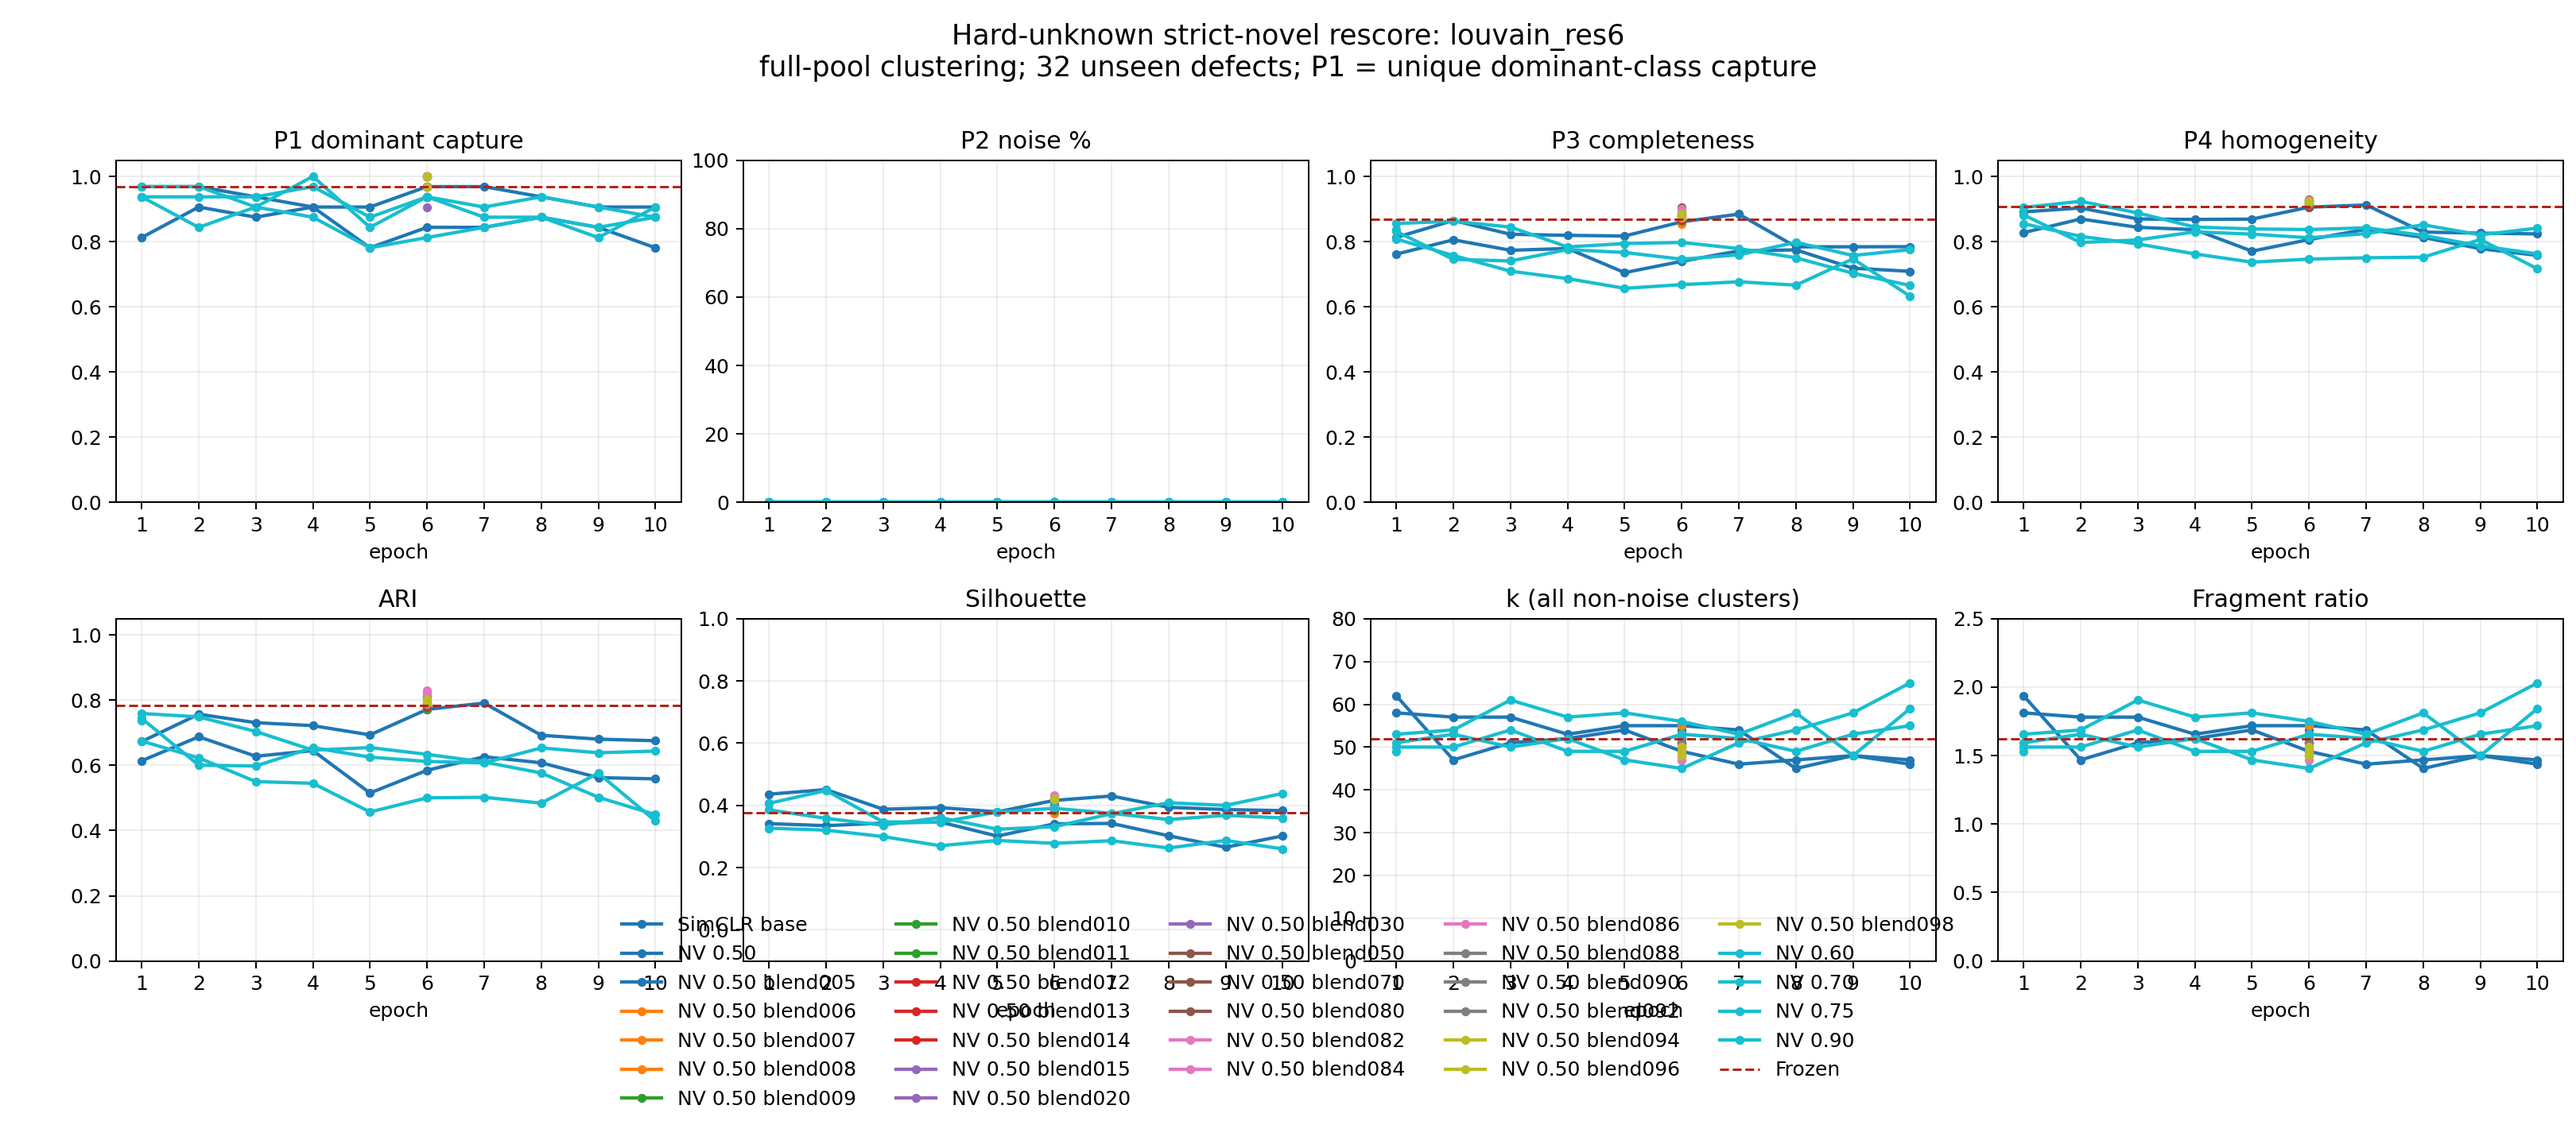
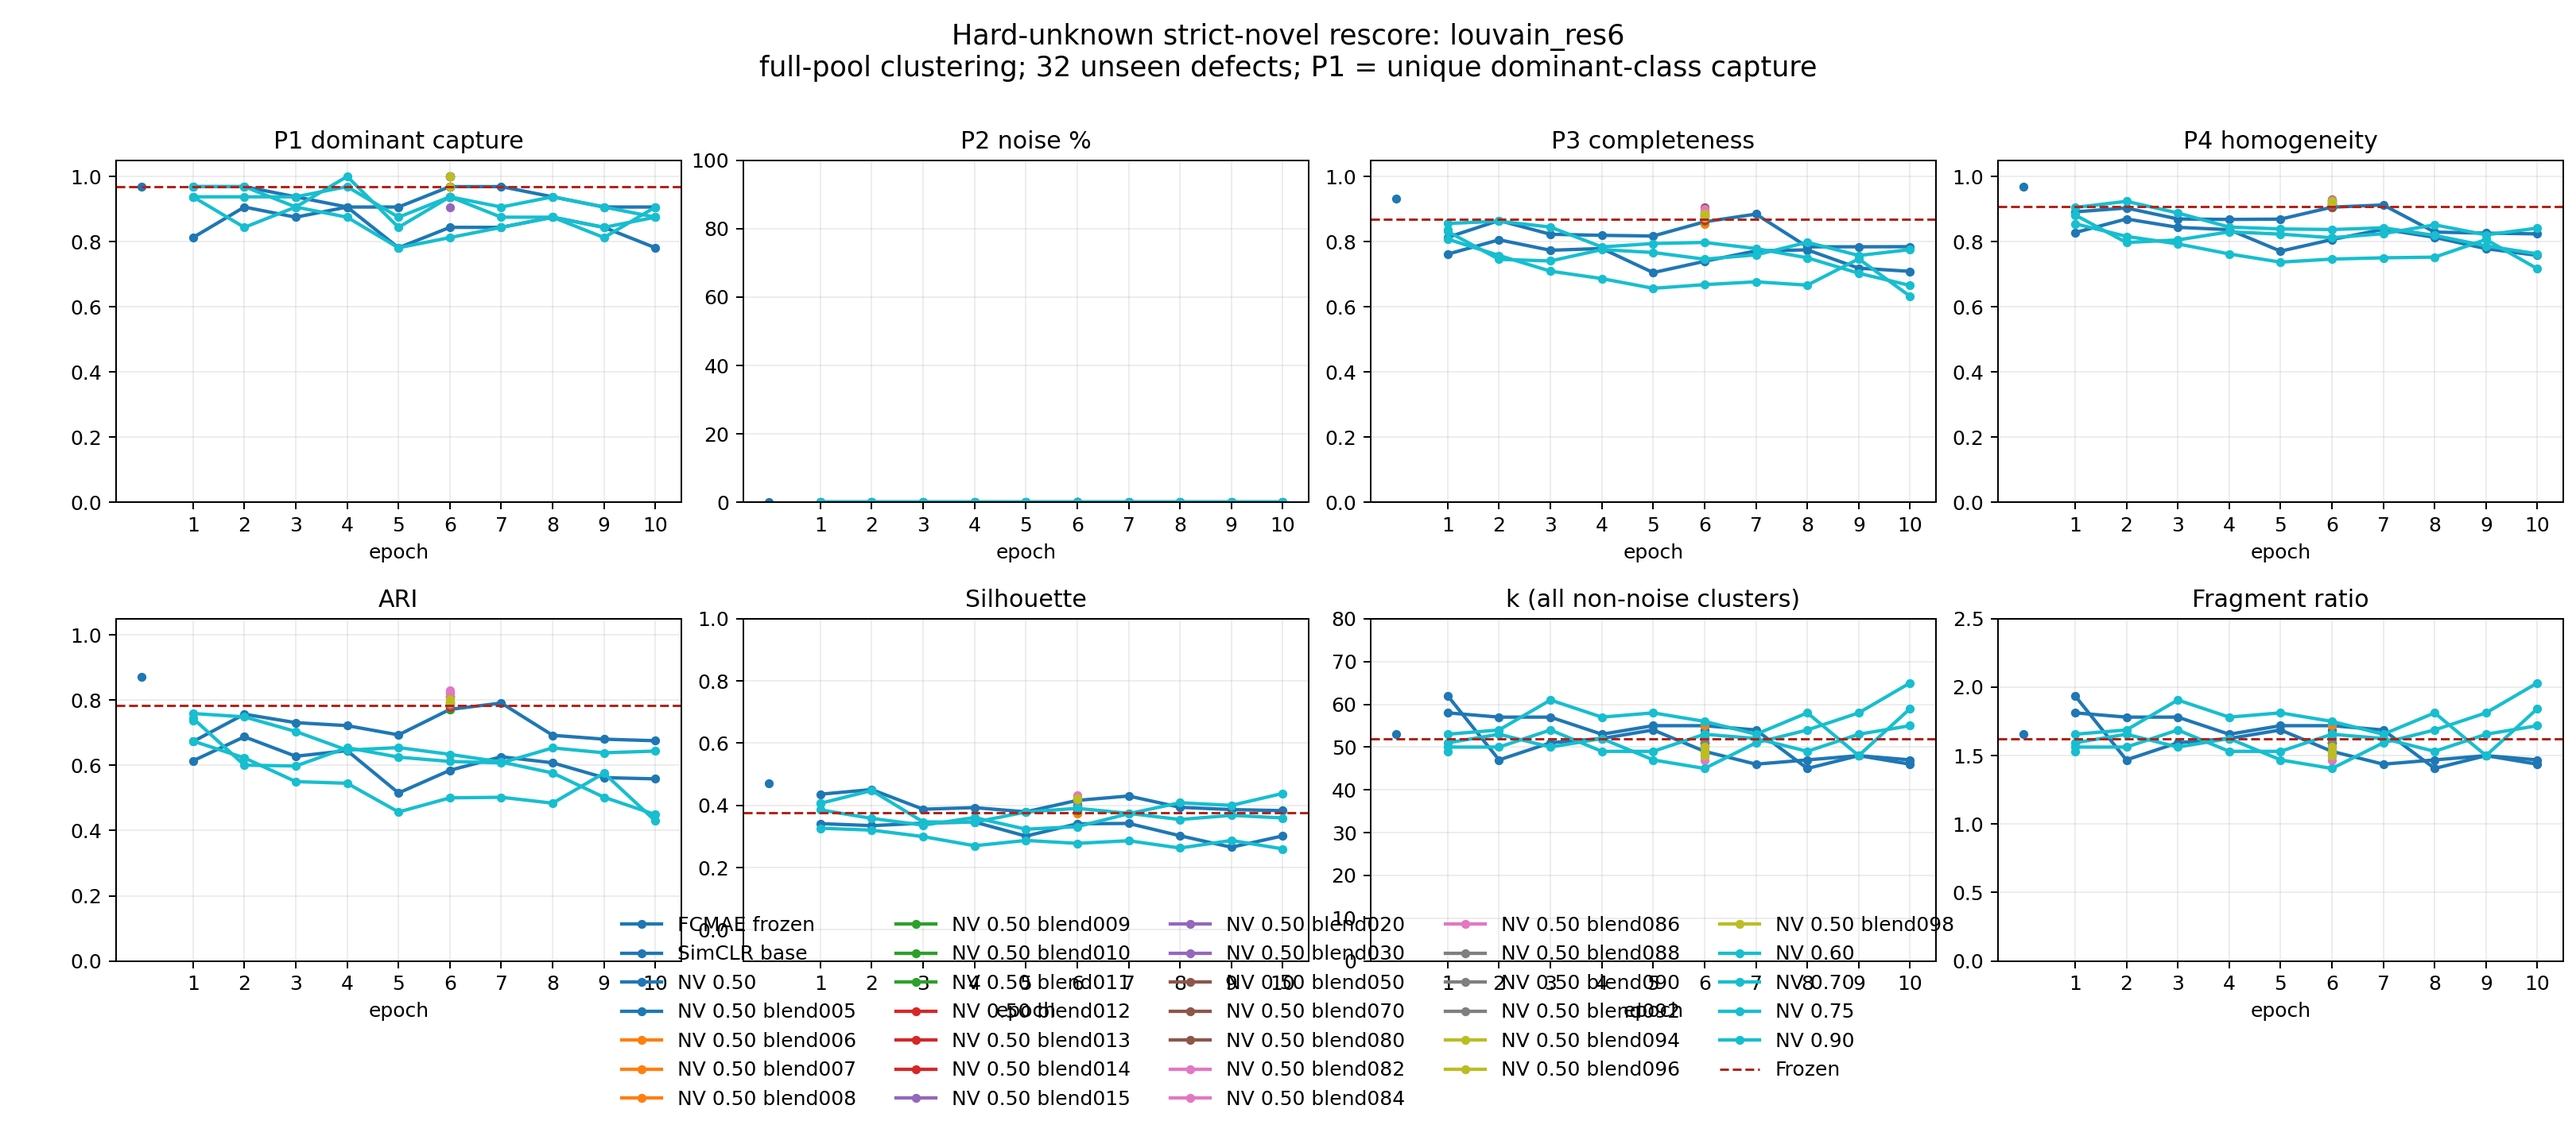
experiments: queue hard unknown method ablations

diff --git a/scripts/build_robust_grouping_status.py b/scripts/build_robust_grouping_status.py
@@ -48,6 +48,8 @@ def unknown_recipe_label(recipe: str) -> str:
         return "SimCLR base" if not suffix else f"SimCLR base {suffix}"
     match = re.match(r"^unkda_nv(\d{3})(?:_(.*))?$", recipe, re.IGNORECASE)
     if match is None:
+        if recipe.startswith("unkda_"):
+            return recipe.removeprefix("unkda_").replace("_", " ")
         return recipe
     suffix = (match.group(2) or "").replace("_", " ")
     label = f"NV {int(match.group(1)) / 100:.2f}"
@@ -88,9 +90,19 @@ def main() -> None:
 
     unknown = pd.read_csv(unknown_path)
     frozen = unknown[(unknown["recipe"] == "frozen") & (unknown["method"] == "finch_p2")].iloc[0]
-    learned_finch = unknown[(unknown["recipe"] != "frozen") & (unknown["method"] == "finch_p2")]
+    learned_finch = unknown[
+        (~unknown["recipe"].isin(["frozen", "fcmae_frozen"]))
+        & (unknown["method"] == "finch_p2")
+    ]
     unknown_louvain = unknown[unknown["method"] == "louvain_res6"]
     unknown_frozen_lv = unknown_louvain[unknown_louvain["recipe"] == "frozen"].iloc[0]
+    fcmae_finch_rows = unknown[(unknown["recipe"] == "fcmae_frozen") & (unknown["method"] == "finch_p2")]
+    fcmae_louvain_rows = unknown[(unknown["recipe"] == "fcmae_frozen") & (unknown["method"] == "louvain_res6")]
+    fcmae_finch = fcmae_finch_rows.iloc[0] if not fcmae_finch_rows.empty else None
+    fcmae_louvain = fcmae_louvain_rows.iloc[0] if not fcmae_louvain_rows.empty else None
+    fcmae_core_finch = fcmae_finch is not None and core_gate(fcmae_finch, frozen)
+    fcmae_core_louvain = fcmae_louvain is not None and core_gate(fcmae_louvain, unknown_frozen_lv)
+    fcmae_dual_gate = bool(fcmae_core_finch and fcmae_core_louvain)
     dual_gate_rows: list[tuple[pd.Series, pd.Series]] = []
     for _, finch_row in learned_finch.iterrows():
         matching_louvain = unknown_louvain[
@@ -104,16 +116,23 @@ def main() -> None:
             dual_gate_rows.append((finch_row, louvain_row))
     if dual_gate_rows:
         exploratory, exploratory_lv = max(dual_gate_rows, key=lambda pair: float(pair[0].ARI))
-    else:
+    elif not learned_finch.empty:
         exploratory = learned_finch.loc[learned_finch["ARI"].idxmax()]
         exploratory_lv = unknown_louvain[
             (unknown_louvain["recipe"] == exploratory.recipe)
             & (unknown_louvain["epoch"] == exploratory.epoch)
         ].iloc[0]
-    unknown_core_finch = core_gate(exploratory, frozen)
-    unknown_core_louvain = core_gate(exploratory_lv, unknown_frozen_lv)
-    unknown_dual_gate = unknown_core_finch and unknown_core_louvain
-    unknown_label = f"{unknown_recipe_label(str(exploratory.recipe))} ep{int(exploratory.epoch)}"
+    else:
+        exploratory = None
+        exploratory_lv = None
+    unknown_core_finch = exploratory is not None and core_gate(exploratory, frozen)
+    unknown_core_louvain = exploratory_lv is not None and core_gate(exploratory_lv, unknown_frozen_lv)
+    unknown_dual_gate = bool(unknown_core_finch and unknown_core_louvain)
+    unknown_label = (
+        f"{unknown_recipe_label(str(exploratory.recipe))} ep{int(exploratory.epoch)}"
+        if exploratory is not None
+        else None
+    )
 
     lines = [
         "# Robust Grouping Model Status",
@@ -140,25 +159,41 @@ def main() -> None:
             "## Hard-Unknown Strict-Novel",
             "",
             (
-                f"{unknown_label} passes the full hard-unknown 32-class core gate at the same epoch for both clusterers. "
-                "It is selected by FINCH ARI among dual-gate rows and remains provisional until the fixed recipe is reproduced on an independent contrastive seed and holdout."
+                "FCMAE frozen ep0 passes both clusterer gates against DINOv3 frozen and needs only the image-disjoint holdout check."
+                if fcmae_dual_gate
+                else "No alternate frozen backbone currently passes both hard-unknown clusterer gates."
+            ),
+            (
+                f"{unknown_label} is the strongest learned dual-gate candidate and remains provisional until fixed-seed and holdout validation."
                 if unknown_dual_gate
-                else "The full hard-unknown 32-class strict-novel gate has not accepted any learned candidate yet. "
-                "The strongest retained trade-off is listed at the same epoch for both clusterers, for diagnosis only."
+                else "No learned hard-unknown candidate currently passes both clusterer gates."
             ),
             "",
             "| Method | Row | Recipe / epoch | P1 capture | P2 noise% | P3 Comp | P4 Hom | ARI | Sil | k | Fragment | Core gate vs frozen |",
             "|---|---|---|---:|---:|---:|---:|---:|---:|---:|---:|---|",
         ]
     )
-    for method, row, label, gate in (
-        ("FINCH-p2", frozen, unknown_recipe_label("frozen"), True),
-        ("FINCH-p2", exploratory, unknown_label, unknown_core_finch),
-        ("Louvain", unknown_frozen_lv, unknown_recipe_label("frozen"), True),
-        ("Louvain", exploratory_lv, unknown_label, unknown_core_louvain),
-    ):
+    hard_rows = [
+        ("FINCH-p2", frozen, "reference", unknown_recipe_label("frozen"), True),
+        ("Louvain", unknown_frozen_lv, "reference", unknown_recipe_label("frozen"), True),
+    ]
+    if fcmae_finch is not None and fcmae_louvain is not None:
+        hard_rows.extend(
+            [
+                ("FINCH-p2", fcmae_finch, "backbone candidate", "FCMAE frozen ep0", fcmae_core_finch),
+                ("Louvain", fcmae_louvain, "backbone candidate", "FCMAE frozen ep0", fcmae_core_louvain),
+            ]
+        )
+    if exploratory is not None and exploratory_lv is not None and unknown_label is not None:
+        hard_rows.extend(
+            [
+                ("FINCH-p2", exploratory, "learned candidate", unknown_label, unknown_core_finch),
+                ("Louvain", exploratory_lv, "learned candidate", unknown_label, unknown_core_louvain),
+            ]
+        )
+    for method, row, role, label, gate in hard_rows:
         lines.append(
-            f"| {method} | {'reference' if 'frozen' in label else 'exploratory'} | {label} | {p1_text(row)} | "
+            f"| {method} | {role} | {label} | {p1_text(row)} | "
             f"{float(row.P2_noise_pct):.1f} | {float(row.P3_completeness):.3f} | {float(row.P4_homogeneity):.3f} | "
             f"{float(row.ARI):.3f} | {float(row.Sil):.3f} | {int(row.k_total)} | {float(row.fragment_ratio):.2f} | "
             f"{'pass' if gate else 'fail'} |"
@@ -170,9 +205,14 @@ def main() -> None:
             "",
             "- WM-811K, RESISC45, and DTD: use the accepted learned candidate shown above; retain the frozen embedding as fallback.",
             (
-                f"- Hard unknown: {unknown_label} is the current provisional candidate; retain DINOv3 frozen as the fallback until independent seed and holdout confirmation."
+                "- Hard unknown: FCMAE frozen ep0 is the current provisional backbone candidate; retain DINOv3 frozen as the fallback until the image-disjoint holdout check completes."
+                if fcmae_dual_gate
+                else "- Hard unknown: deploy DINOv3 frozen grouping until an alternate backbone passes both clusterer gates."
+            ),
+            (
+                f"- Learned hard-unknown candidate: {unknown_label}; retain it separately until fixed-seed and holdout validation complete."
                 if unknown_dual_gate
-                else "- Hard unknown: deploy DINOv3 frozen grouping until a learned candidate passes the core gate under both FINCH-p2 and Louvain."
+                else "- Learned hard-unknown candidate: none accepted yet under both clusterers."
             ),
             "- Therefore this is a robust model family with an acceptance/fallback policy, not yet one universal learned checkpoint.",
             "",

diff --git a/scripts/rescore_unknown_strict_novel.py b/scripts/rescore_unknown_strict_novel.py
@@ -35,7 +35,7 @@ EXCLUDED = (
     "Donut_fork,Edge-Ring_bank_boundary,Edge-Ring_scratch,Edge-Top_fork,"
     "Full_scratch,ParallelScratches,RingDots"
 )
-NAME_RE = re.compile(r"^(?P<recipe>unkda_(?:base|nv(?P<threshold>\d{3}))(?:_[a-z0-9]+)*)_ep(?P<epoch>\d+)$", re.IGNORECASE)
+NAME_RE = re.compile(r"^(?P<recipe>unkda_[a-z0-9_]+)_ep(?P<epoch>\d+)$", re.IGNORECASE)
 METHODS = ("finch_p2", "louvain_res6")
 
 
@@ -114,10 +114,12 @@ def discover(root: Path, frozen: Path, extra_frozen: list[tuple[str, Path]]) -> 
         match = NAME_RE.fullmatch(path.stem)
         if match is None:
             continue
-        threshold = match.group("threshold")
+        recipe = match.group("recipe")
+        threshold_match = re.match(r"^unkda_nv(?P<threshold>\d{3})(?:_|$)", recipe, re.IGNORECASE)
+        threshold = threshold_match.group("threshold") if threshold_match else None
         specs.append(
             {
-                "recipe": match.group("recipe"),
+                "recipe": recipe,
                 "epoch": int(match.group("epoch")),
                 "threshold": float(threshold) / 100.0 if threshold else np.nan,
                 "embedding": path.resolve(),
@@ -212,6 +214,8 @@ def display_recipe(recipe: str) -> str:
         return "SimCLR base" if not suffix else f"SimCLR base {suffix}"
     match = re.match(r"^unkda_nv(\d{3})(?:_(.*))?$", recipe, re.IGNORECASE)
     if match is None:
+        if recipe.startswith("unkda_"):
+            return recipe.removeprefix("unkda_").replace("_", " ")
         return recipe
     suffix = (match.group(2) or "").replace("_", " ")
     label = f"NV {int(match.group(1)) / 100:.2f}"

diff --git a/docs/paper/canonical_rescore_260713/robust_grouping_status.md b/docs/paper/canonical_rescore_260713/robust_grouping_status.md
@@ -17,19 +17,23 @@ Core gate: P1 does not regress, P2 does not increase, and P3/P4/ARI do not regre
 
 ## Hard-Unknown Strict-Novel
 
-NV 0.50 blend086 ep6 passes the full hard-unknown 32-class core gate at the same epoch for both clusterers. It is selected by FINCH ARI among dual-gate rows and remains provisional until the fixed recipe is reproduced on an independent contrastive seed and holdout.
+FCMAE frozen ep0 passes both clusterer gates against DINOv3 frozen and needs only the image-disjoint holdout check.
+NV 0.50 blend086 ep6 is the strongest learned dual-gate candidate and remains provisional until fixed-seed and holdout validation.
 
 | Method | Row | Recipe / epoch | P1 capture | P2 noise% | P3 Comp | P4 Hom | ARI | Sil | k | Fragment | Core gate vs frozen |
 |---|---|---|---:|---:|---:|---:|---:|---:|---:|---:|---|
 | FINCH-p2 | reference | DINOv3 frozen | 30/32 (0.938) | 0.0 | 0.830 | 0.892 | 0.709 | 0.304 | 58 | 1.81 | pass |
-| FINCH-p2 | exploratory | NV 0.50 blend086 ep6 | 30/32 (0.938) | 0.0 | 0.859 | 0.902 | 0.739 | 0.348 | 51 | 1.59 | pass |
 | Louvain | reference | DINOv3 frozen | 31/32 (0.969) | 0.0 | 0.868 | 0.907 | 0.785 | 0.378 | 52 | 1.62 | pass |
-| Louvain | exploratory | NV 0.50 blend086 ep6 | 31/32 (0.969) | 0.0 | 0.901 | 0.924 | 0.831 | 0.429 | 47 | 1.47 | pass |
+| FINCH-p2 | backbone candidate | FCMAE frozen ep0 | 32/32 (1.000) | 0.0 | 0.891 | 0.958 | 0.805 | 0.381 | 62 | 1.94 | pass |
+| Louvain | backbone candidate | FCMAE frozen ep0 | 31/32 (0.969) | 0.0 | 0.931 | 0.968 | 0.871 | 0.472 | 53 | 1.66 | pass |
+| FINCH-p2 | learned candidate | NV 0.50 blend086 ep6 | 30/32 (0.938) | 0.0 | 0.859 | 0.902 | 0.739 | 0.348 | 51 | 1.59 | pass |
+| Louvain | learned candidate | NV 0.50 blend086 ep6 | 31/32 (0.969) | 0.0 | 0.901 | 0.924 | 0.831 | 0.429 | 47 | 1.47 | pass |
 
 ## Current Deployment Decision
 
 - WM-811K, RESISC45, and DTD: use the accepted learned candidate shown above; retain the frozen embedding as fallback.
-- Hard unknown: NV 0.50 blend086 ep6 is the current provisional candidate; retain DINOv3 frozen as the fallback until independent seed and holdout confirmation.
+- Hard unknown: FCMAE frozen ep0 is the current provisional backbone candidate; retain DINOv3 frozen as the fallback until the image-disjoint holdout check completes.
+- Learned hard-unknown candidate: NV 0.50 blend086 ep6; retain it separately until fixed-seed and holdout validation complete.
 - Therefore this is a robust model family with an acceptance/fallback policy, not yet one universal learned checkpoint.
 
 

diff --git a/docs/paper/canonical_rescore_260713/unknown_strict_novel/unknown_strict_novel_canonical_summary.md b/docs/paper/canonical_rescore_260713/unknown_strict_novel/unknown_strict_novel_canonical_summary.md
@@ -5,6 +5,7 @@ P1 is unique dominant/main-class capture. Normal and train-known classes remain 
 
 | Recipe | Diagnostic best epoch by FINCH-p2 ARI | P1 capture | P2 noise% | P3 Comp | P4 Hom | ARI | Sil | k | Fragment | Gate vs frozen |
 |---|---:|---:|---:|---:|---:|---:|---:|---:|---:|---|
+| FCMAE frozen | 0 | 32/32 (1.000) | 0.0 | 0.891 | 0.958 | 0.805 | 0.381 | 62 | 1.94 | pass |
 | Frozen | 0 | 30/32 (0.938) | 0.0 | 0.830 | 0.892 | 0.709 | 0.304 | 58 | 1.81 | pass |
 | SimCLR base | 2 | 26/32 (0.812) | 0.0 | 0.802 | 0.849 | 0.596 | 0.295 | 58 | 1.81 | fail |
 | NV 0.50 | 6 | 31/32 (0.969) | 0.0 | 0.831 | 0.889 | 0.674 | 0.312 | 57 | 1.78 | fail |
